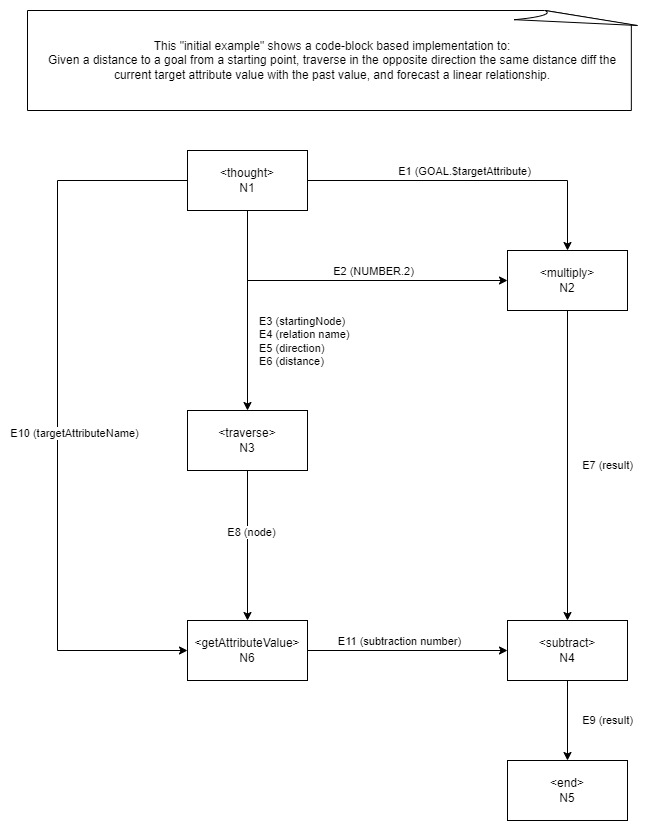
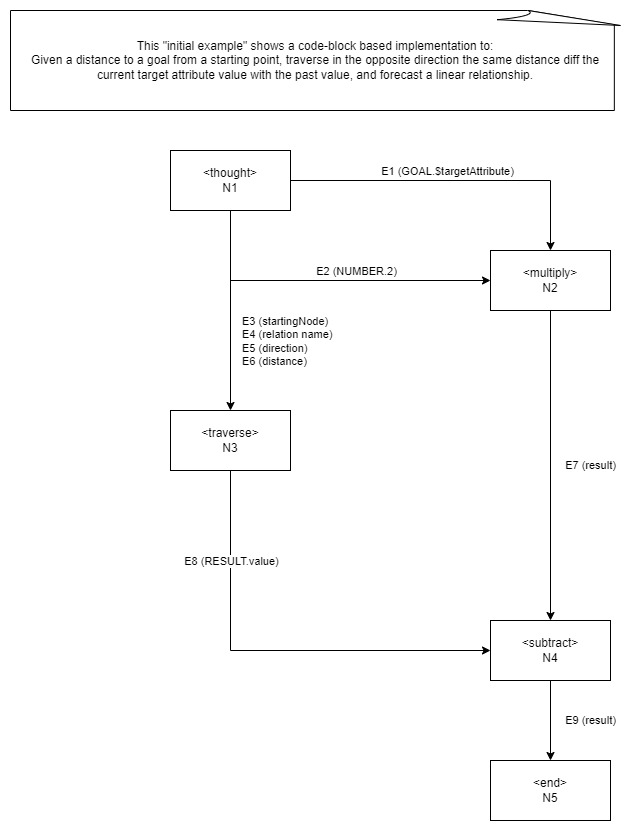
working subtraction
... but wrong question

diff --git a/java-project/src/test/java/com/whelanlabs/andrew/ThoughtTest.java b/java-project/src/test/java/com/whelanlabs/andrew/ThoughtTest.java
@@ -111,6 +111,7 @@ public class ThoughtTest {
       final Node goalNode = new Node(ElementHelper.generateKey(), "goal");
       goalNode.addAttribute("relationType", "LinearDatasetEdge");
       goalNode.addAttribute("direction", Direction.outbound.toString());
+      goalNode.addAttribute("name", "goalNode" );
       goalNode.addAttribute("distance", 10);
       goalNode.addAttribute("targetProperty", "value");
       goalNode.addAttribute("resultClass", "Float");
@@ -118,89 +119,107 @@ public class ThoughtTest {
       
       // create a thought node
       final Node n1 = new Node(thoughtKey, "thought");
+      n1.addAttribute("name", "n1" );
 
       // create steps
       final Node n2 = new Node(ElementHelper.generateKey(), "thought_operation");
       n2.addAttribute("thought_key", n1.getKey());
+      n2.addAttribute("name", "n2" );
       n2.addAttribute("operationName", "multiply");
       
       final Node n3 = new Node(ElementHelper.generateKey(), "thought_operation");
       n3.addAttribute("thought_key", n1.getKey());
+      n3.addAttribute("name", "n3" );
       n3.addAttribute("operationName", "traverse");
       
       final Node n4 = new Node(ElementHelper.generateKey(), "thought_operation");
       n4.addAttribute("thought_key", n1.getKey());
+      n4.addAttribute("name", "n4" );
       n4.addAttribute("operationName", "subtract");
 
       final Node n5 = new Node(ElementHelper.generateKey(), "thought_result");
       n5.addAttribute("thought_key", n1.getKey());
+      n5.addAttribute("name", "n5" );
       n5.addAttribute("operationName", "end");
 
       final Node n6 = new Node(ElementHelper.generateKey(), "thought_operation");
       n6.addAttribute("thought_key", n1.getKey());
+      n6.addAttribute("name", "n6" );
       n6.addAttribute("operationName", "getAttributeValue");
       
       // link the thought process using valid sequence relationships
       Edge e0 = new Edge(ElementHelper.generateKey(), goalNode, n1, "approach");
+      e0.addAttribute("name", "e0" );
       
       Edge e1 = new Edge(ElementHelper.generateKey(), n1, n2, "thought_sequence");
       e1.addAttribute("thought_key", n1.getKey());
+      e1.addAttribute("name", "e1" );
       e1.addAttribute("input", "targetPropValue" );
       e1.addAttribute("output", "floatA");
       
       Edge e2 = new Edge(ElementHelper.generateKey(), n1, n2, "thought_sequence");
       e2.addAttribute("thought_key", n1.getKey());
+      e2.addAttribute("name", "e2" );
       e2.addAttribute("input", "NUMBER.2" );
       e2.addAttribute("output", "floatB");
 
       Edge e3 = new Edge(ElementHelper.generateKey(), n1, n3, "thought_sequence");
       e3.addAttribute("thought_key", n1.getKey());
+      e3.addAttribute("name", "e3" );
       e3.addAttribute("input", "startingNode" );
       e3.addAttribute("output", "startingNode");
       
       Edge e4 = new Edge(ElementHelper.generateKey(), n1, n3, "thought_sequence");
       e4.addAttribute("thought_key", n1.getKey());
+      e4.addAttribute("name", "e4" );
       e4.addAttribute("input", "relationType" );
       e4.addAttribute("output", "traversalEdgeType");
       
       Edge e5 = new Edge(ElementHelper.generateKey(), n1, n3, "thought_sequence");
       e5.addAttribute("thought_key", n1.getKey());
+      e5.addAttribute("name", "e5" );
       e5.addAttribute("input", "direction" );
       e5.addAttribute("output", "direction");
 
       Edge e6 = new Edge(ElementHelper.generateKey(), n1, n3, "thought_sequence");
       e6.addAttribute("thought_key", n1.getKey());
+      e6.addAttribute("name", "e6" );
       e6.addAttribute("input", "distance" );
       e6.addAttribute("output", "distance");
       
       Edge e7 = new Edge(ElementHelper.generateKey(), n2, n4, "thought_sequence");
       e7.addAttribute("thought_key", n1.getKey());
-      e7.addAttribute("input", "targetPropValue" );
+      e7.addAttribute("name", "e7" );
+      e7.addAttribute("input", "RESULT" );
       e7.addAttribute("output", "floatA");
 
-      Edge e8 = new Edge(ElementHelper.generateKey(), n3, n6, "thought_sequence");
+      Edge e8 = new Edge(ElementHelper.generateKey(), n3, n4, "thought_sequence");
       e8.addAttribute("thought_key", n1.getKey());
-      e8.addAttribute("input", "RESULT" );
-      e8.addAttribute("output", "node");
+      e8.addAttribute("name", "e8" );
+      e8.addAttribute("input", "RESULT.value" );
+      e8.addAttribute("output", "floatB");
       
       Edge e9 = new Edge(ElementHelper.generateKey(), n4, n5, "thought_sequence");
       e9.addAttribute("thought_key", n1.getKey());
+      e9.addAttribute("name", "e9" );
       e9.addAttribute("input", "RESULT" );
       e9.addAttribute("output", "floatA");
 
       Edge e10 = new Edge(ElementHelper.generateKey(), n1, n6, "thought_sequence");
       e10.addAttribute("thought_key", n1.getKey());
+      e10.addAttribute("name", "e10" );
       e10.addAttribute("input", "GOAL.targetProperty" );
       e10.addAttribute("output", "propertyName");
       
       Edge e11 = new Edge(ElementHelper.generateKey(), n6, n4, "thought_sequence");
       e11.addAttribute("thought_key", n1.getKey());
-      e11.addAttribute("input", "RESULT" );
+      e11.addAttribute("name", "e11" );
+      e11.addAttribute("input", "RESULT.value" );
       e11.addAttribute("output", "floatB");
       
       
-      App.getGardenGraph().upsert(goalNode, n1, n2, n3, n4, n5);
-      App.getGardenGraph().upsert(e0, e1, e2, e3, e4, e5, e6, e7, e8);
+      App.getGardenGraph().upsert(goalNode, n1, n2, n3, n4, n5); // skip: , n6
+      App.getGardenGraph().upsert(e0, e1, e2, e3, e4, e5, e6, e7, e8, e9); // skip: , e10, e11
       
       return new Thought(thoughtKey);
    }

diff --git a/java-project/src/main/java/com/whelanlabs/andrew/Thought.java b/java-project/src/main/java/com/whelanlabs/andrew/Thought.java
@@ -150,7 +150,8 @@ public class Thought {
                logger.debug("next level input edges: " + inputEdges);
                for (Edge inputEdge : inputEdges) {
                   String inputProp = (String) inputEdge.getAttribute("input");
-                  
+                  String edgeName = (String) inputEdge.getAttribute("name");
+                  logger.debug("edgeName = " + edgeName );
                   String outputProp = (String) inputEdge.getAttribute("output");
                   String fromKey = inputEdge.getFrom().split("/")[1];
                   Object value = getInputValue(workingMemory, fromKey, inputProp );
@@ -171,10 +172,8 @@ public class Thought {
    private Object getInputValue(Map<String, Object> workingMemory, String fromKey, String inputProp) {
       logger.debug("getInputValue inputProp = " + inputProp);
       Object result = null;
-      if(!inputProp.contains(".")) {
-         result = workingMemory.get(fromKey + "." + inputProp);
-      }
-      else if(inputProp.startsWith("NUMBER.") ) {
+
+      if(inputProp.startsWith("NUMBER.") ) {
          String[] numStringArray = inputProp.split("\\.");
          String numString = numStringArray[1];
          result = Float.valueOf(numString);
@@ -184,7 +183,7 @@ public class Thought {
 //         logger.debug("### result = " + result);
 //      }
       else {
-         throw new RuntimeException("invalid input (" + inputProp + ")");
+         result = workingMemory.get(fromKey + "." + inputProp);
       }
       return result;
    }
@@ -235,8 +234,19 @@ public class Thought {
       Set<String> keyset = propertyMap.keySet();
       for (String key : keyset) {
          String varName = elementKey + "." + key;
-         logger.debug("adding to working memory: " + varName + " =  " + propertyMap.get(key));
-         workingMemory.put(varName, propertyMap.get(key));
+         Object value = propertyMap.get(key);
+
+         if (value instanceof Node) {
+            Map<String, Object> valueProps = ((Node) value).getProperties();
+            Set<String> valuePropsKeyset = valueProps.keySet();
+            for (String valueKey : valuePropsKeyset) {
+               workingMemory = addContext(workingMemory, key + "." + valueKey, valueProps.get(valueKey), elementKey);
+            }
+          }
+         else {
+            logger.debug("adding to working memory: " + varName + " =  " + value);
+            workingMemory.put(varName, value);
+         }
       }
       return workingMemory;
    }

diff --git a/java-project/src/main/java/com/whelanlabs/andrew/Operations.java b/java-project/src/main/java/com/whelanlabs/andrew/Operations.java
@@ -91,9 +91,12 @@ public class Operations {
 
    public static Map<String, Object> subtract(Node node, Map<String, Object> inputs) {
       Map<String, Object> results = new HashMap<>();
-      Float floatA = (Float) inputs.get(node.getKey() + "." + "floatA");
-      Float floatB = (Float) inputs.get(node.getKey() + "." + "floatB");
+      
+      Float floatA = ((Number) inputs.get(node.getKey() + "." + "floatA")).floatValue();
+      Float floatB = ((Number) inputs.get(node.getKey() + "." + "floatB")).floatValue();
       logger.debug("subtract: " + floatA + " - " + floatB);
+      logger.debug("   current node: " + node.getKey());
+
       Float result = floatA - floatB;
       results.put("RESULT", result);
       return results;
